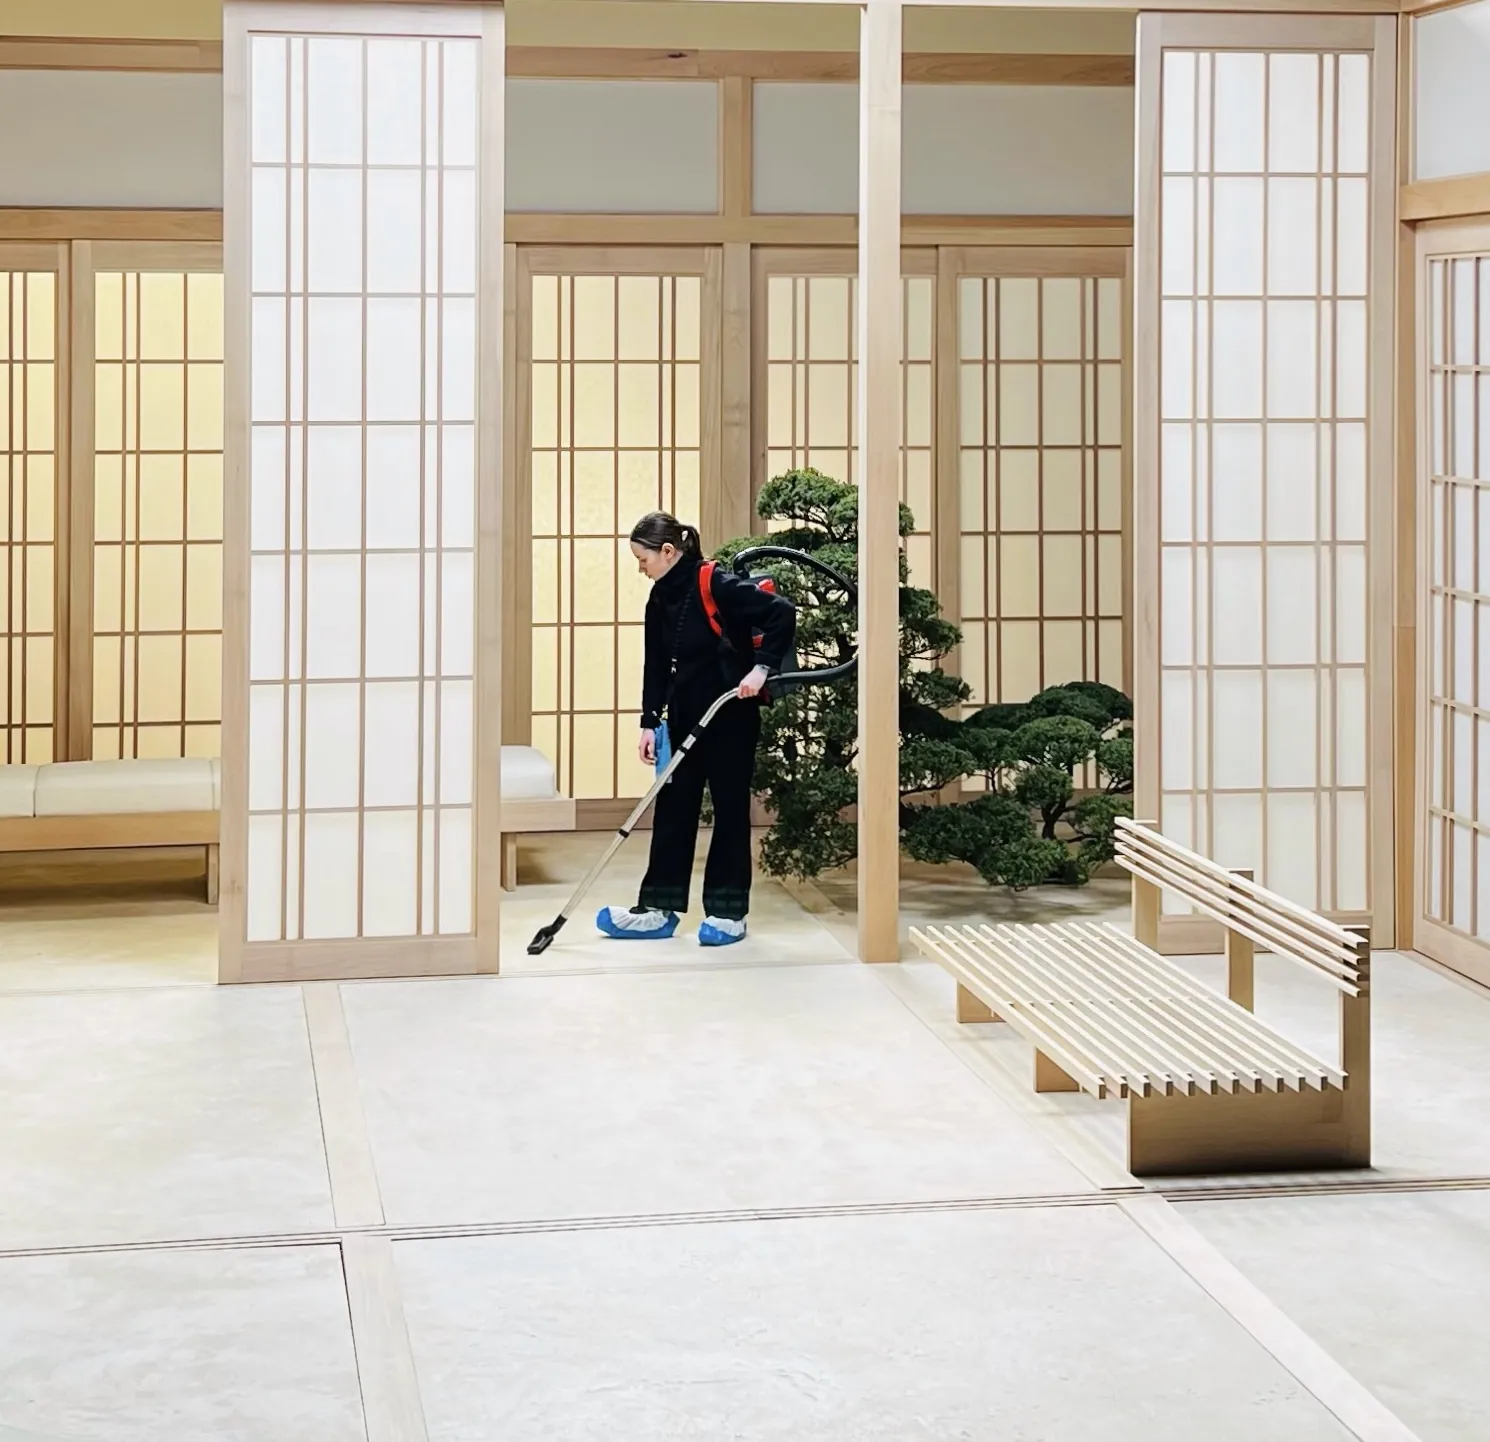
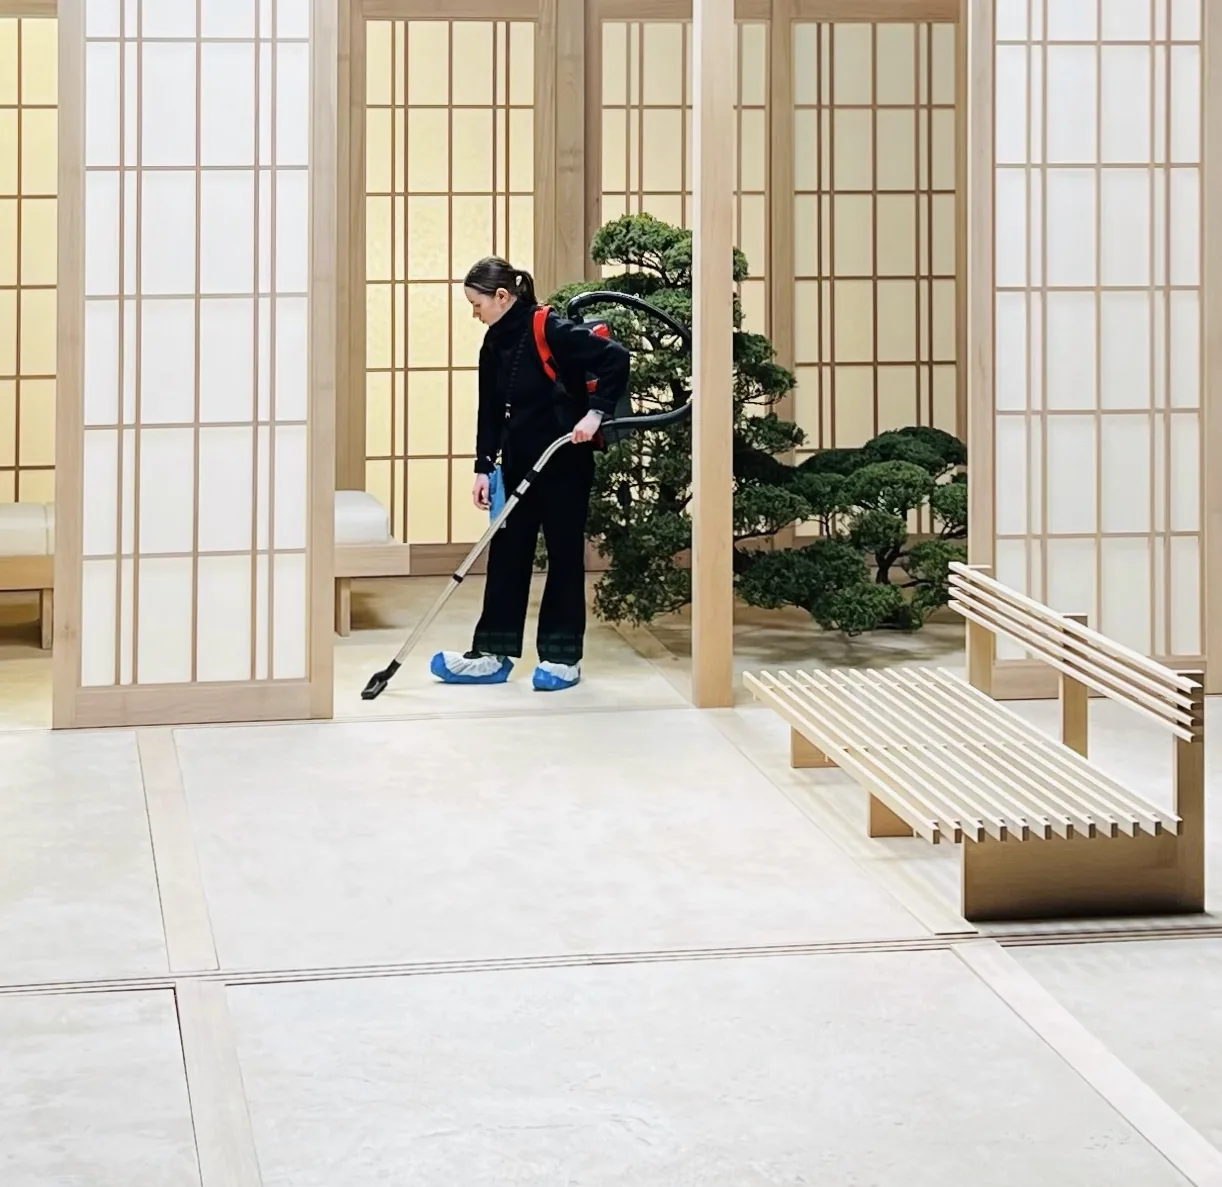
Photo Propreté : équipière remontée au-dessus du texte
Claude-Session: https://claude.ai/code/session_01T58N33PMHC6qr7RmpLHC2e

diff --git a/index.html b/index.html
@@ -223,7 +223,7 @@
         </div>
         <div class="grid grid-2">
           <a class="photo-card reveal" href="proprete.html">
-            <img src="images/metiers/proprete-studio.webp" alt="Équipière Névé passant l’aspirateur dans un décor japonais en studio" loading="lazy" style="object-position: 50% 40%">
+            <img src="images/metiers/proprete-studio.webp" alt="Équipière Névé passant l’aspirateur dans un décor japonais en studio" loading="lazy" style="object-position: 50% 30%">
             <span class="on-photo">
               <h3>Propreté</h3>
               <p>Concrètement, nous proposons une prise en charge complète de la propreté : nettoyage avant, pendant et après les événements, entretien des sols et des moquettes, nettoyage du mobilier et des vitres. Nos équipes sont formées pour intervenir dans des environnements exigeants, avec discrétion et flexibilité.</p>
